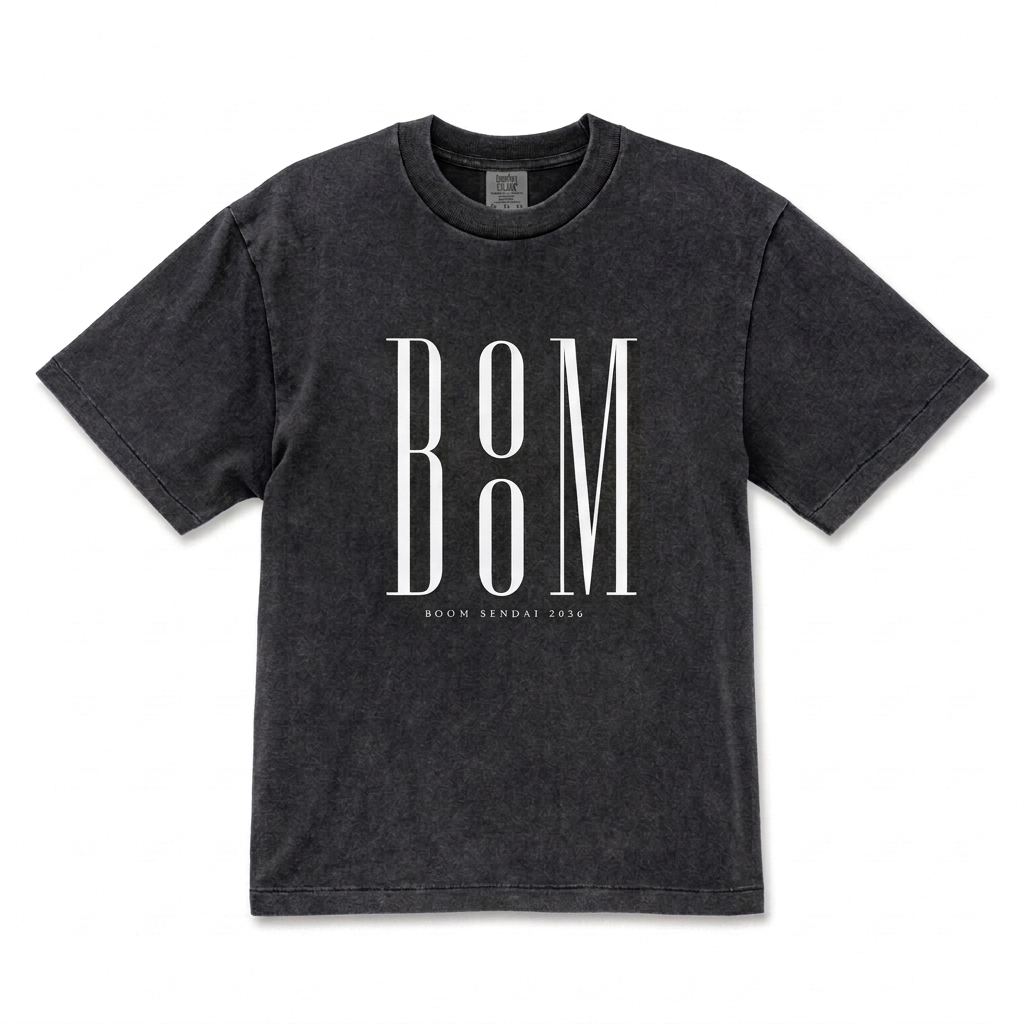
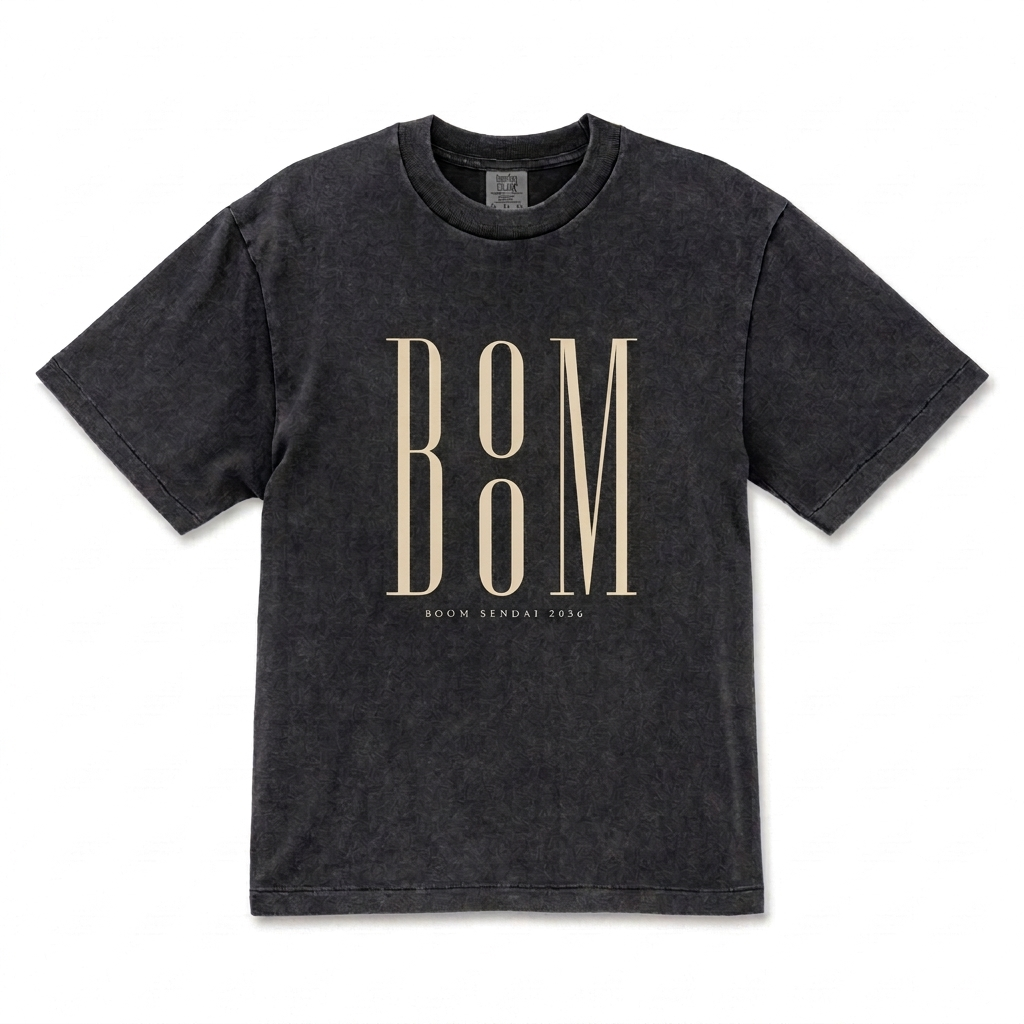
オフィシャルTシャツ: 着用モデル画像を全色に追加 + 平置きグレーのプリント色をクリーム寄りに
- フェードレッド/フェードブルーの着用モデル写真を追加 (MODEL_official_red/blue.png)
- フェードグレーの平置き画像 official_grey.png のプリント色を真っ白からクリーム/ベージュに調整
  (Gemini で着用モデル写真の色を参照しつつ印面のみリカラー)
- ViewMode に "model" を追加。タブラベルは "MODEL"
  (CLOSEUP は刺繍Tシャツのプリント拡大に引き続き使用)
- 全3色とも FRONT(平置き) / MODEL(着用) の2タブで切替可能

Changed region(s): [[0.4688, 0.3125, 0.625, 0.5938], [0.375, 0.3125, 0.4375, 0.5938]]

diff --git a/src/components/ShopSection.tsx b/src/components/ShopSection.tsx
@@ -42,26 +42,29 @@ const COLOR_HEX: Record<string, string> = {
 
 // ── Color → image override per product ──
 // Returns whichever views (front / back / closeup) exist for this color.
-type VariantImages = { front: string; back?: string; closeup?: string };
+type VariantImages = { front: string; back?: string; closeup?: string; model?: string };
 
 function imagesForVariant(
   merchId: number,
   color: string
 ): VariantImages | null {
-  // オフィシャルTシャツ
+  // オフィシャルTシャツ — 各色とも 平置き + 着用モデルの2枚構成
   if (merchId === 4) {
-    // フェードグレーは平置き + 着用モデル画像の2枚構成
-    if (color === "フェードグレー") {
-      return {
-        front:   "/merch/official_grey.png",
-        closeup: "/merch/official_grey_model.png",
-      };
-    }
-    const map: Record<string, string> = {
-      "フェードレッド": "/merch/official_red.png",
-      "フェードブルー": "/merch/official_blue.png",
+    const map: Record<string, VariantImages> = {
+      "フェードグレー": {
+        front: "/merch/official_grey.png",
+        model: "/merch/official_grey_model.png",
+      },
+      "フェードレッド": {
+        front: "/merch/official_red.png",
+        model: "/merch/official_red_model.png",
+      },
+      "フェードブルー": {
+        front: "/merch/official_blue.png",
+        model: "/merch/official_blue_model.png",
+      },
     };
-    return map[color] ? { front: map[color] } : null;
+    return map[color] ?? null;
   }
   // BOOMくん刺繍Tシャツ — front / back / closeup の3視点
   if (merchId === 5) {
@@ -108,11 +111,12 @@ function imagesForVariant(
   return null;
 }
 
-type ViewMode = "front" | "back" | "closeup";
+type ViewMode = "front" | "back" | "closeup" | "model";
 const VIEW_LABEL: Record<ViewMode, string> = {
   front: "FRONT",
   back: "BACK",
   closeup: "CLOSEUP",
+  model: "MODEL",
 };
 
 // ════════════════════════════════════════
@@ -386,9 +390,11 @@ function OrderModal({ item, mode, onClose }: { item: MerchItem; mode: ShopMode; 
     const out: ViewMode[] = ["front"];
     if (variantImages.back) out.push("back");
     if (variantImages.closeup) out.push("closeup");
+    if (variantImages.model) out.push("model");
     return out;
   }, [variantImages]);
   const displayImage =
+    (view === "model" && variantImages?.model) ||
     (view === "closeup" && variantImages?.closeup) ||
     (view === "back" && variantImages?.back) ||
     variantImages?.front ||
